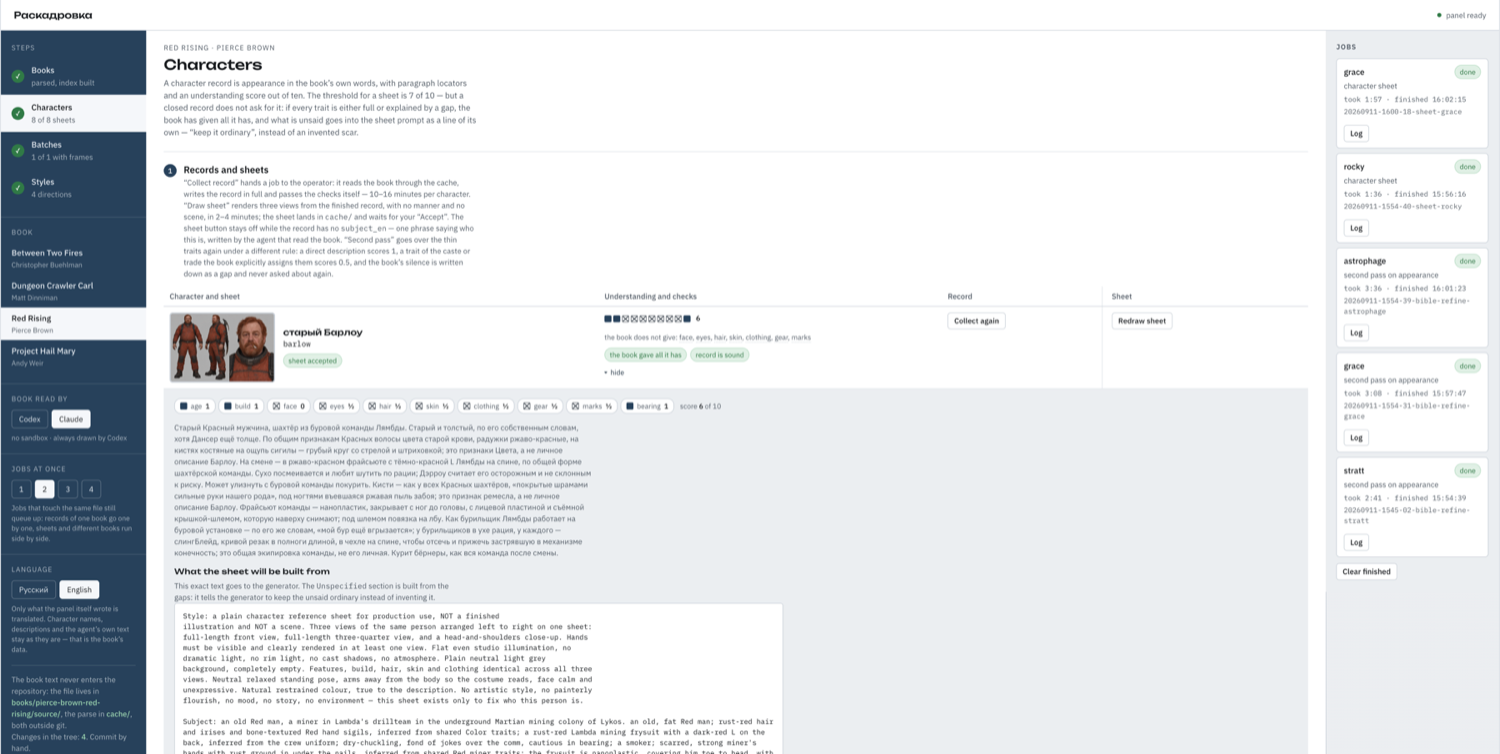
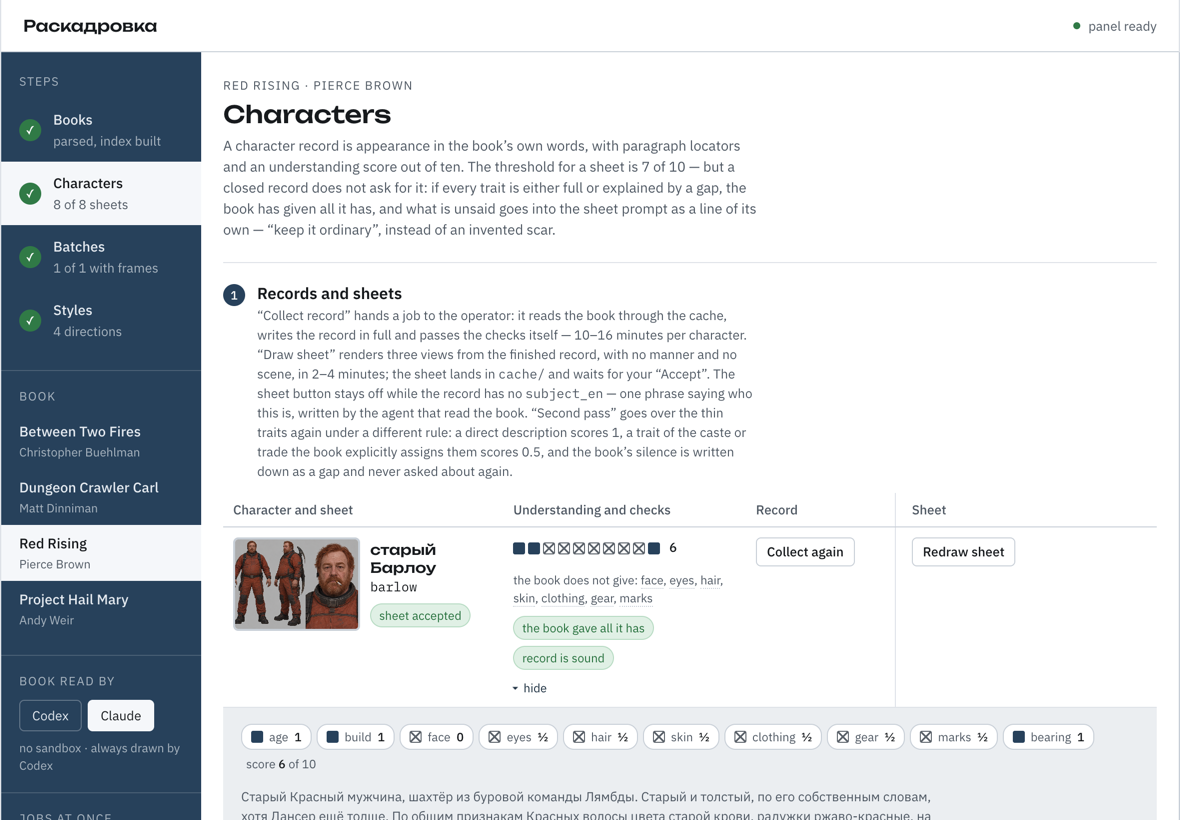
Снимки панели в читаемом размере
Прежние были сняты окном в 5120 px и ужаты под колонку README — текст
уменьшался в 3,4 раза и не читался вовсе, а интерфейс здесь и есть то,
что человек должен увидеть первым.

Сняты при 1180 px и отданы один к одному: GitHub ужимает их всего в 1,3
раза, кегль остаётся читаемым. Два снимка вместо трёх и оба по делу —
рабочий экран целиком и раскрытая запись с точным промптом. Экраны
«Книги» и «Партии» выброшены: там нечего разглядывать.

Подписи говорят, на что смотреть, а не повторяют заголовок.

diff --git a/README.ru.md b/README.ru.md
@@ -117,10 +117,11 @@ books/<книга>/
 python3 panel/server.py --port 8770 --open
 ```
 
-![Экран «Персонажи»: запись, аудит понимания и промпт листа](docs/screens/characters.png)
+![Экран «Персонажи»: записи, аудит понимания, кнопки каждого шага](docs/screens/characters.png)
 
-*Запись раскрыта: десять клеток поимённо, чего книга не даёт, и ровно тот текст, что уйдёт
-генератору. На снимке интерфейс английский — переключатель в боковине.*
+*Слева — этапы, по которым идёт книга, сами книги, оператор и сколько заданий идут рядом.
+В середине — герой: принятый лист, десять клеток полоской, чего книга не даёт, и кнопки,
+которыми работа движется дальше. Справа — очередь заданий с часами и логами.*
 
 Локальное окно в репозиторий: весь путь от файла книги до кадра, без терминала. Книги и их
 прогресс, записи героев с аудитом понимания и результатом проверки, партии, направления стиля
@@ -150,7 +151,14 @@ python3 panel/server.py --port 8770 --open
 - **ведёт несколько заданий рядом** — сколько разрешает настройка, и только те, что не спорят
   за один файл: записи героев одной книги идут по очереди, листы и разные книги — одновременно.
 
-Интерфейс двуязычный — русский и английский, переключатель в боковине. Переводится только
+![Раскрытая запись: десять клеток поимённо и точный промпт, который уйдёт генератору](docs/screens/record.png)
+
+*«Что в записи», раскрыто. Клетки названы и с баллами; описание словами книги; ниже — ровно
+тот текст, что уйдёт генератору, вместе с разделом `Unspecified`, собранным из пробелов:
+он велит оставить несказанное обычным, вместо выдуманного.*
+
+Интерфейс двуязычный — русский и английский, переключатель в боковине.
+На снимках он английский. Переводится только
 то, что написала панель: имена героев, описания и тексты агента остаются как есть, потому
 что это данные книги.
 

diff --git a/README.md b/README.md
@@ -115,11 +115,11 @@ The same path without a terminal:
 python3 panel/server.py --port 8770 --open
 ```
 
-![The Characters screen: the record, the understanding audit and the exact sheet prompt](docs/screens/characters.png)
+![The Characters screen: records, the understanding audit, buttons for every step](docs/screens/characters.png)
 
-*The record open: ten traits by name, what the book does not give, and the exact text that
-goes to the generator. The Russian paragraph is the book's own data — only the interface is
-translated.*
+*Left: the steps a book goes through, the books themselves, the operator and how many jobs run
+at once. Middle: one character — the accepted sheet, ten traits as a strip, what the book does
+not give, and the buttons that move the work on. Right: the job queue with timings and logs.*
 
 A local window into the repository: the whole path from a book file to a frame. Books and
 their progress, character records with the understanding audit and the result of the checks,
@@ -154,10 +154,17 @@ What the panel does on its own:
   not touch the same file: records of one book go one by one, sheets and different books run
   at the same time.
 
+![The open record: ten traits by name and the exact prompt the generator receives](docs/screens/record.png)
+
+*“What is in the record”, opened. Ten traits named with their scores; the description in the
+book’s own words; and below it the exact text that goes to the generator — including the
+`Unspecified` section built from the gaps, which tells the generator to keep the unsaid
+ordinary instead of inventing it. The Russian paragraph is the book’s data: only the interface
+is translated.*
+
 The interface is bilingual, Russian and English, with the switch in the sidebar. Only what
 the panel itself wrote is translated: character names, descriptions and the agent's own text
-stay as they are, because that is the book's data — which is why the Russian text is still
-visible in the screenshots above.
+stay as they are, because that is the book's data.
 
 The design and the screens are described in the
 [panel specification](docs/superpowers/specs/2026-09-09-panel-design.md) (in Russian).
